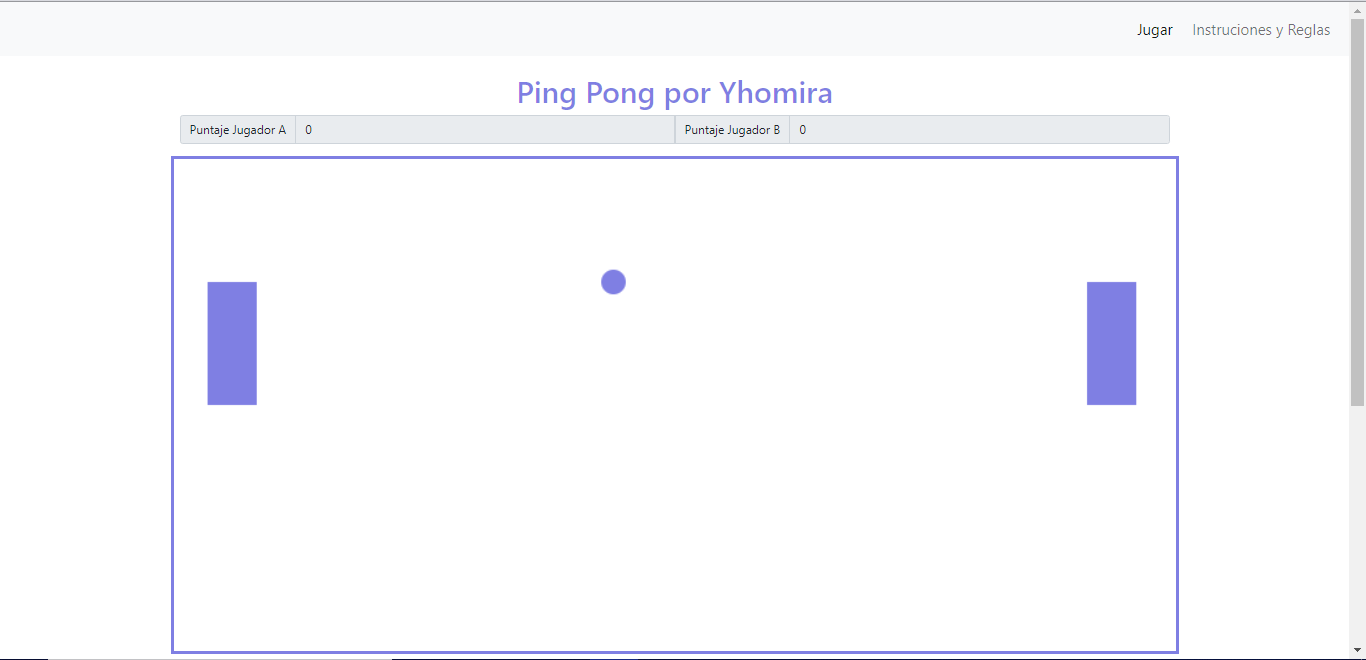
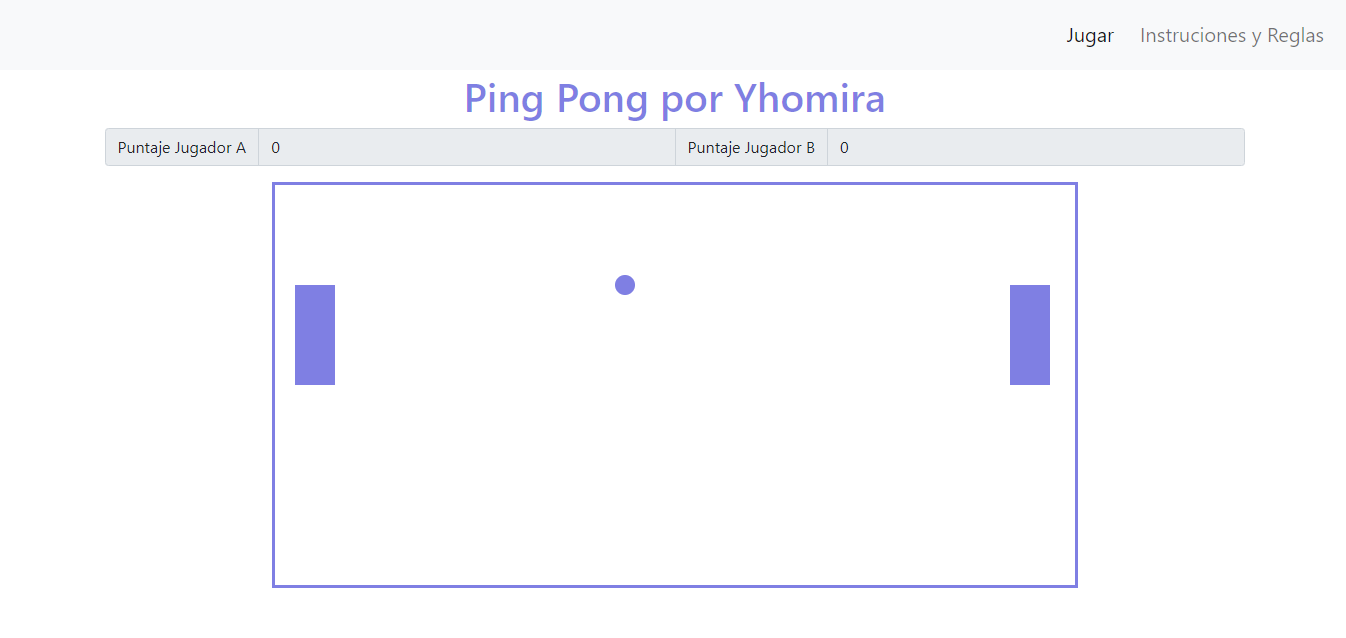
arreglo de imagenes del readme y arreglos del html

diff --git a/index.html b/index.html
@@ -28,7 +28,11 @@
             padding: 50px;
         }
         #container{
-            padding: 70px 0px 50px 0px;
+            padding: 50px 0px 50px 0px;
+        }
+        .canvasdiv{
+            justify-content:center;
+            aling-items:center
         }
         
         
@@ -69,7 +73,7 @@
         </div>
         <!-- Container wrapper -->
       </nav>>
-    <div class="container mx-auto" id="container">
+    <div class="container" id="container">
         
 
 
@@ -82,7 +86,7 @@
             <input id='puntajeb' type="number" class="form-control" disabled >
         </div>
         <!-- Content here -->
-        <div class="row justify-content-center" >
+        <div class="d-flex justify-content-center" >
         <canvas id="canvas"></canvas>
         </div> 
     <!--llamando a archivo javascript-->

diff --git a/README.md b/README.md
@@ -19,9 +19,9 @@ GANA el primer jugador que obtiene 11 puntos DIVIERTANSE!!!
 Inicio de Juego
 ![Imagen1](1.png)
 Movimienro de barras y de pelota
-![Imagen2](3.png)
-reglas y instruciones
 ![Imagen2](2.png)
+reglas y instruciones
+![Imagen3](3.png)
 
 ## Sacar una lista de preguntas (que en el instante tu puedas responder) para luego discutirlas.
 
